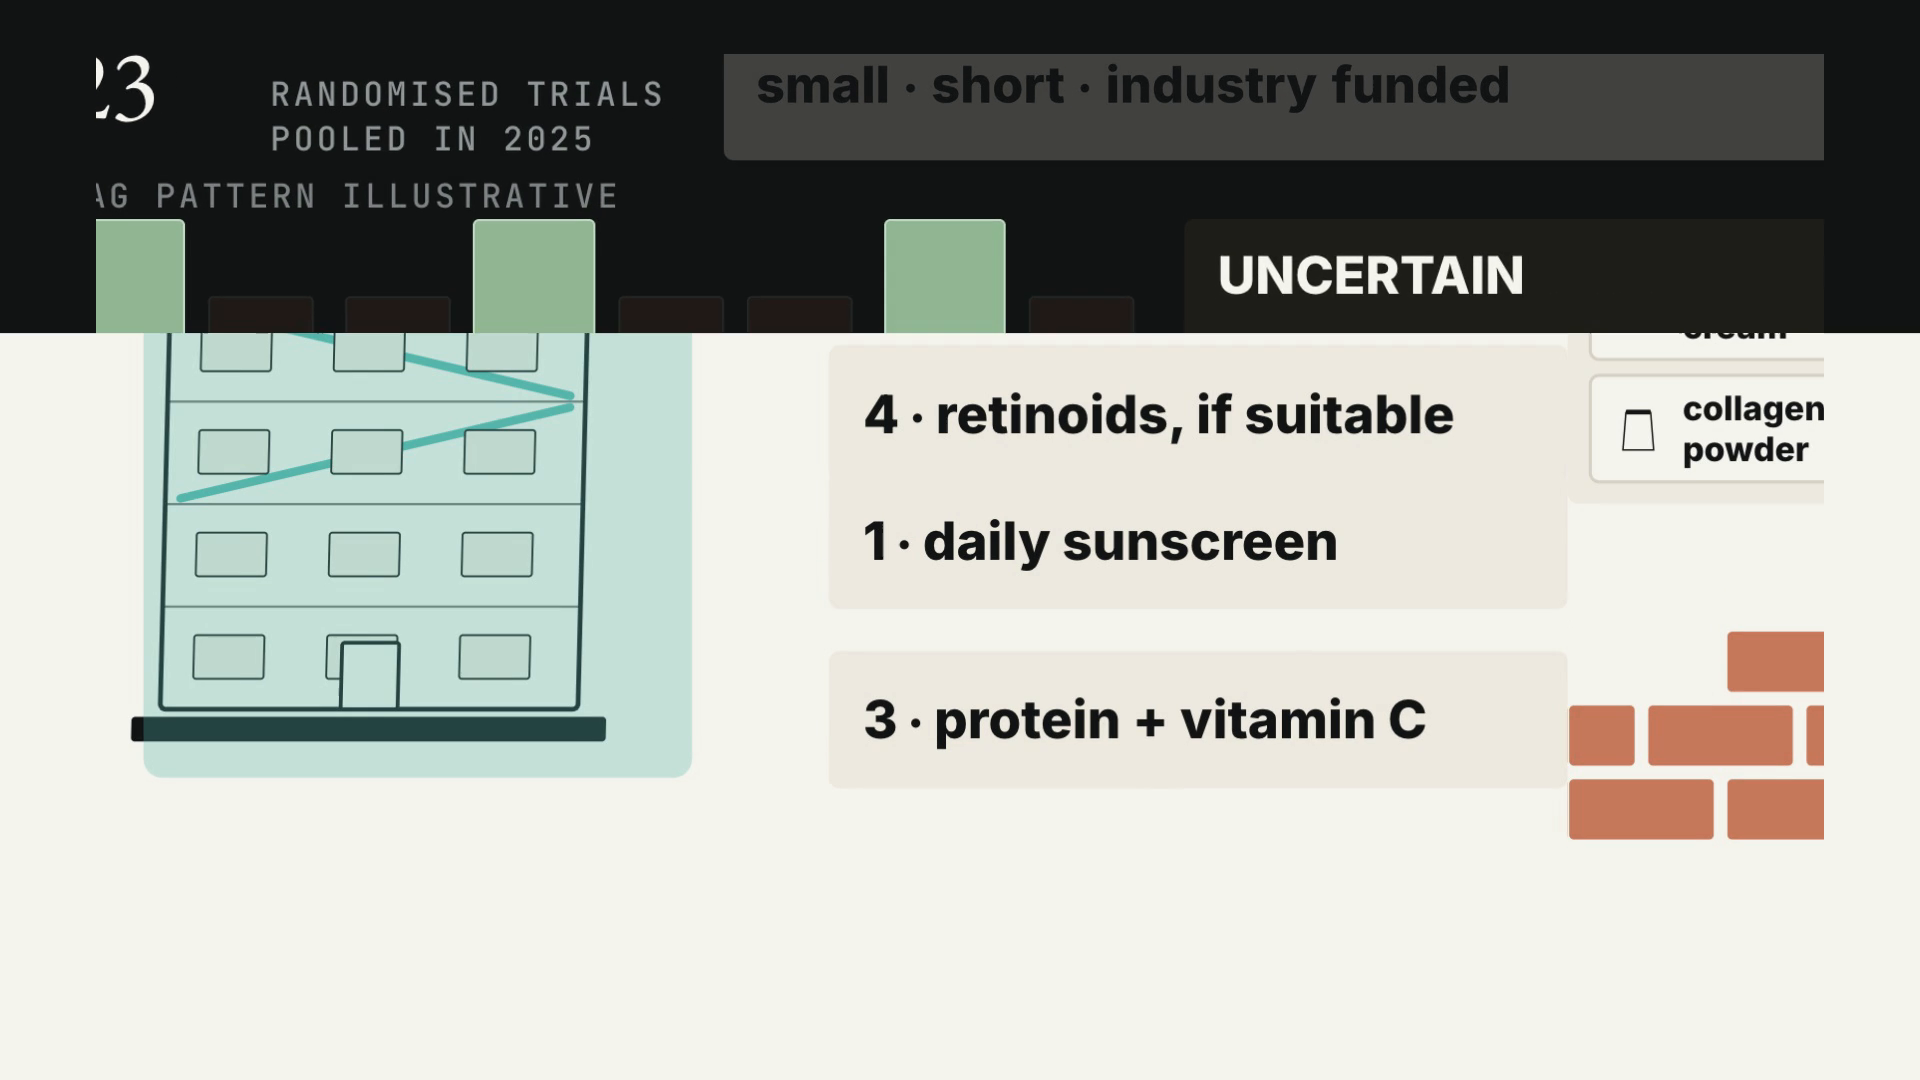
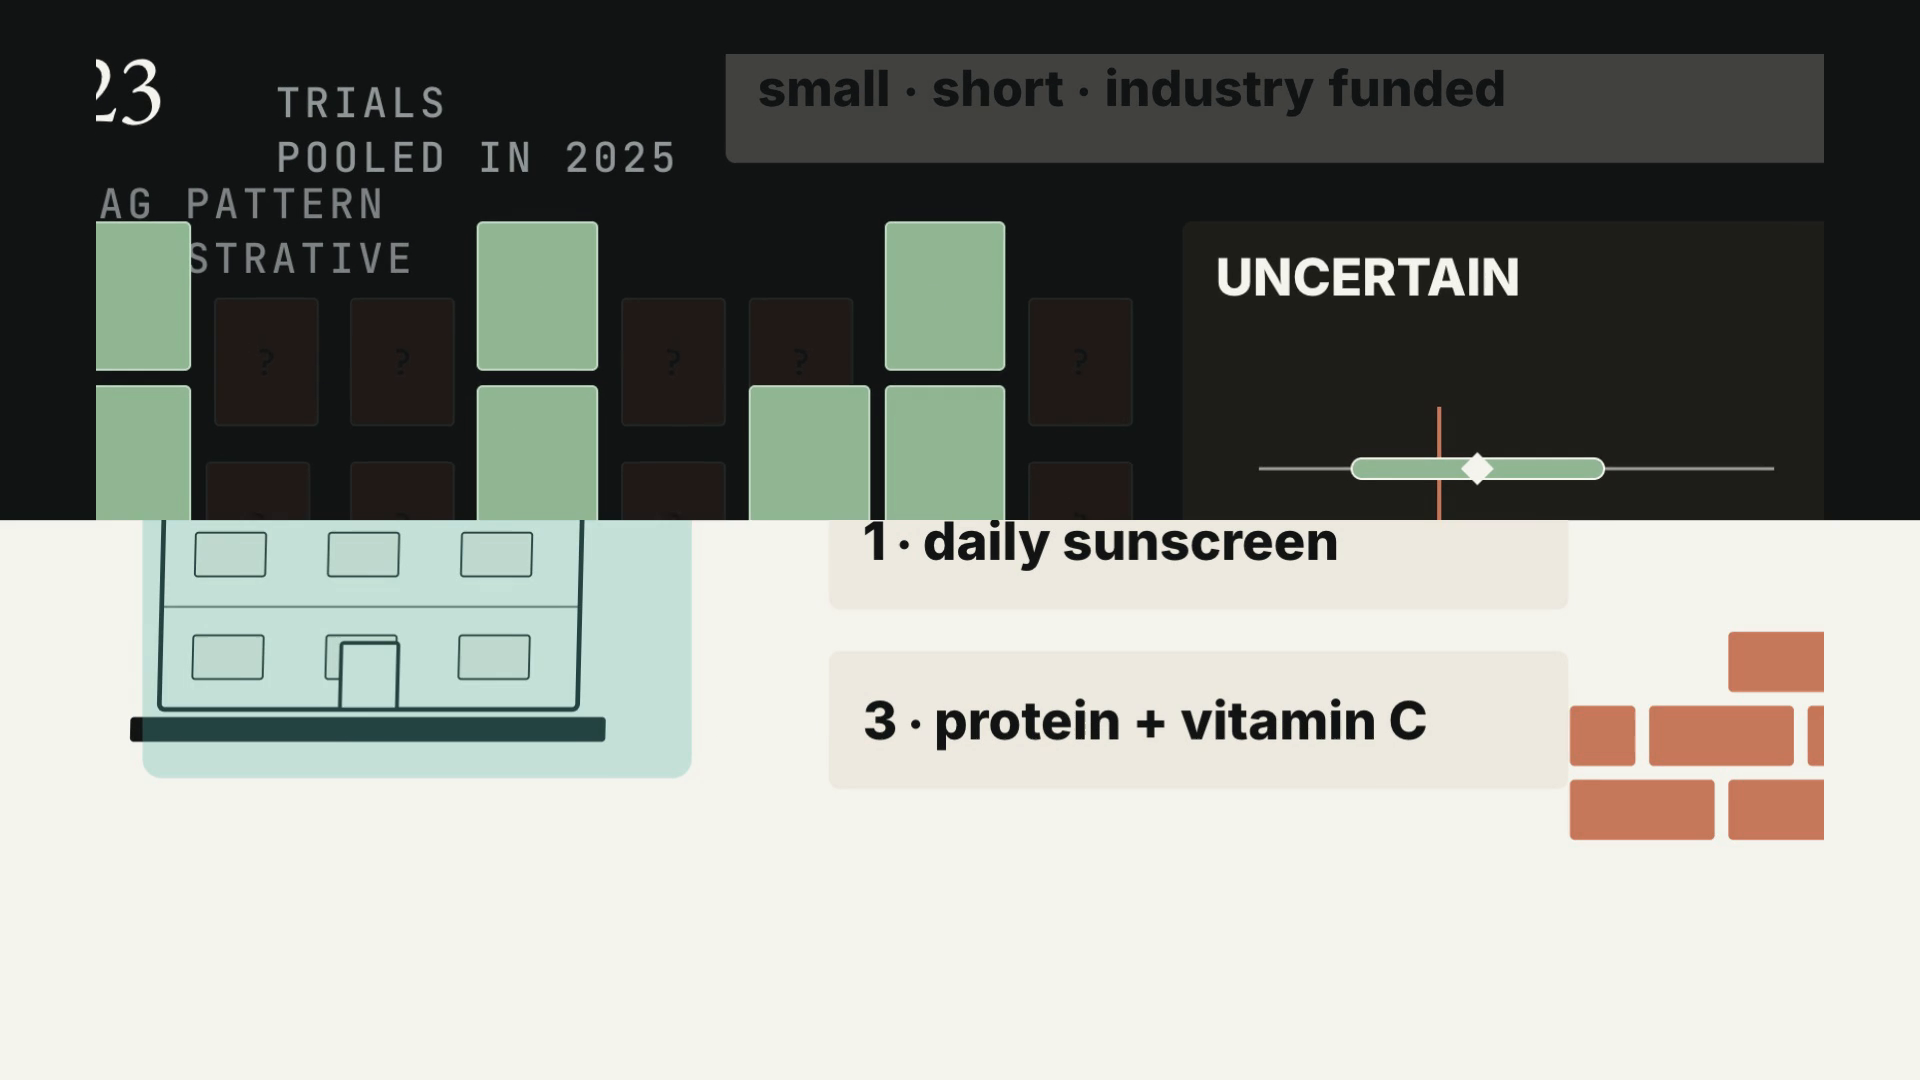
collagen: four render-verified defects closed -- gates now clean through check-seams.py
All found by extracting and measuring actual frames, not by reading source:

1. Animation item 2 (review): back.out's playful bounce (EASE.slam) was
   landing on the evidence-limitation and uncertainty labels themselves
   (NOT SIGNIFICANT x2, UNCERTAIN, the "optional" verdict chip) -- reserved
   for impacts and jokes, never a caveat or guidance claim. Switched to
   EASE.arrive.

2. A legibility regression from this session's own Phase 3 type-size raise
   (--t-label 32->40px): the pooled-trial-count label wrapped to a 3rd line
   at the wider size and collided with "tag pattern illustrative" below it,
   garbling both. Found on the rendered frame at t=92.5s. Trimmed the label
   text ("randomised trials" -> "trials", kept in VO/captions) to fit 2
   lines again.

3. check-seams.py's render-level PSNR check: 01-hook -> 02-promise's iris
   transition (origin dead-centre by design, where the molecule parks) fully
   covered the frame before its own nominal midpoint under the flat 2400px
   overshoot radius calibrated for a corner-positioned iris, so the wipe read
   as a hard cut (76dB, "matches a neighbour"). transitions.py now scales the
   radius down only for iris_at positions close enough to centre that the
   flat radius would finish early (far < 1200px); the three transitions that
   were already passing keep the exact flat 2400 they were verified against.
   An earlier, unscoped version of this fix regressed 02-promise ->
[…]

diff --git a/videos/collagen-where-did-it-go/compositions/frames/10-evidence.html b/videos/collagen-where-did-it-go/compositions/frames/10-evidence.html
@@ -265,7 +265,7 @@
        <div class="world" id="world">
         <div class="abs" style="position:absolute;left:0px;top:0px;width:600px;height:150px;">
           <p class="ev-n" id="ev-n">0</p>
-          <p class="ev-n-l" id="ev-n-l" style="position:absolute;left:200px;top:34px;">randomised trials<br>pooled in 2025</p>
+          <p class="ev-n-l" id="ev-n-l" style="position:absolute;left:200px;top:34px;">trials<br>pooled in 2025</p>
           <p class="ev-n-l" id="tag-note" style="position:absolute;left:0;top:132px;opacity:.85;">tag pattern illustrative</p>
         </div>
         <div class="panel " id="caveat-panel" style="position:absolute;left:620px;top:0px;width:1108px;height:150px;"><div class="wash dim" id="caveat-panel-wash"></div><p class="kt on-ink" id="caveat"><span class="kt-word">small</span> <span class="kt-word">·</span> <span class="kt-word">short</span> <span class="kt-word">·</span> <span class="kt-word">industry</span> <span class="kt-word" id="caveat-last">funded</span></p></div>
@@ -488,7 +488,10 @@
     tl.to("#res-pt", { x:292 - 425, duration:1.8, ease:EASE.swap }, 16.030 + 0.25);
     tl.to("#res-wash", { scaleX:0, transformOrigin:"100% 50%", duration:0.5, ease:EASE.wipe }, 17.190);
     tl.to("#res-v1", { opacity:0, duration:0.25, ease:EASE.exit }, 17.190);
-    tl.to("#res-v2", { opacity:1, y:0, duration:0.3, ease:EASE.slam }, 17.190 + 0.2);
+    // EASE.arrive, not slam: this is the evidence-limitation label itself
+    // (Animation item 2 -- back.out's playful bounce is reserved for impacts
+    // and jokes, never a limitation, uncertainty, or guidance claim).
+    tl.to("#res-v2", { opacity:1, y:0, duration:0.3, ease:EASE.arrive }, 17.190 + 0.2);
     tl.to("#res-zero", { attr:{ "stroke-width":9 }, stroke:"#C97A5C", duration:0.5, ease:EASE.swap }, 17.190 + 0.3);
     // restore, then filter 2: higher quality only
     tl.to(IND, { y:0, opacity:1, scale:1, backgroundColor:"#93B896", duration:0.4, stagger:0.01, ease:EASE.swap }, 20.161 - 0.30);
@@ -507,8 +510,9 @@
     tl.to("#res-pt", { x:272 - 425, duration:1.4, ease:EASE.swap }, 21.160 + 0.25);
     tl.to("#res-wash", { scaleX:0, transformOrigin:"100% 50%", duration:0.4, ease:EASE.wipe }, 21.160 + 0.5);
     tl.to("#res-v1", { opacity:0, duration:0.2, ease:EASE.exit }, 21.160 + 0.5);
-    tl.to("#res-v2", { opacity:1, y:0, duration:0.3, ease:EASE.slam }, 21.160 + 0.7);
-    tl.to("#res-v2", { scale:1.06, duration:0.25, yoyo:true, repeat:1, ease:EASE.slam }, 22.022 + 0.1);
+    // EASE.arrive here too, and for the pulse below -- same limitation label
+    tl.to("#res-v2", { opacity:1, y:0, duration:0.3, ease:EASE.arrive }, 21.160 + 0.7);
+    tl.to("#res-v2", { scale:1.06, duration:0.25, yoyo:true, repeat:1, ease:EASE.arrive }, 22.022 + 0.1);
     // settle before the flood: the biggest beat lands on a settled frame
     tl.to("#res", { scale:1, transformOrigin:"100% 50%", duration:0.8, ease:EASE.camera }, 22.022);
     // THE PAYOFF: the biggest beat in the piece -- a paper flood, then three slams
@@ -543,7 +547,8 @@
     // sliver of it.
     tl.to("#res-ci", { attr:{ x:150, width:245 }, duration:0.9, ease:EASE.swap }, 30.586);
     tl.to("#res-v2", { opacity:0, duration:0.25, ease:EASE.exit }, 31.715 - 0.4);
-    tl.fromTo("#res-v3", { opacity:0, y:16 }, { opacity:1, y:0, duration:0.3, ease:EASE.slam }, 31.715 - 0.1);
+    // EASE.arrive: UNCERTAIN is the scene's own uncertainty label, not an impact
+    tl.fromTo("#res-v3", { opacity:0, y:16 }, { opacity:1, y:0, duration:0.3, ease:EASE.arrive }, 31.715 - 0.1);
 
     // departure: push under the invert wipe into the next file
     tl.to("#world", { scale:1.06, duration:0.60, ease:"power2.inOut" }, 32.296);

diff --git a/videos/collagen-where-did-it-go/compositions/frames/02-promise.html b/videos/collagen-where-did-it-go/compositions/frames/02-promise.html
@@ -243,7 +243,7 @@
           <circle class="qmark" id="qmark-dot" cx="1268" cy="524" r="3"/>
         </svg>
         <p class="kt serif" id="promise-q"><span class="kt-word">Where</span> <span class="kt-word">does</span> <span class="kt-word">it</span> <span class="kt-word">actually</span> <span class="kt-word" id="promise-q-last">go?</span></p>
-        <div class="panel late" id="data" style="position:absolute;left:1000px;top:0px;width:728px;height:918px;"><div class="wash ink" id="data-wash"></div><div class="mini-grid" id="mini-grid"></div><p class="chip on-ink" id="mini-cap" style="">23 trials</p><p class="chip on-ink" id="mini-leg" style="">$ = industry funded</p><p class="chip on-ink" id="mini-note" style="">tag pattern illustrative</p></div>
+        <div class="panel late" id="data" style="position:absolute;left:1000px;top:0px;width:718px;height:908px;"><div class="wash ink" id="data-wash"></div><div class="mini-grid" id="mini-grid"></div><p class="chip on-ink" id="mini-cap" style="">23 trials</p><p class="chip on-ink" id="mini-leg" style="">$ = industry funded</p><p class="chip on-ink" id="mini-note" style="">tag pattern illustrative</p></div>
        </div>
       </div>
       </div>

diff --git a/videos/collagen-where-did-it-go/compositions/frames/14-hierarchy.html b/videos/collagen-where-did-it-go/compositions/frames/14-hierarchy.html
@@ -458,7 +458,10 @@
     // them -- 1.9s of still frame sat across "can be a pleasant moisturiser"
     tl.to("#w1", { y:10, opacity:0.62, duration:1.2, ease:EASE.hold }, 13.822 - 0.2);
     tl.to("#w2", { y:10, opacity:0.62, duration:1.2, ease:EASE.hold }, 15.689 + 0.15);
-    tl.fromTo("#opt-chip", { opacity:0, scale:0.8 }, { opacity:1, scale:1, duration:0.3, ease:EASE.slam }, 16.133);
+    // EASE.arrive: "optional" is the scene's health-guidance verdict on these
+    // two products, not an impact (Animation item 2 -- reserve the playful
+    // back.out bounce for impacts/jokes, never a limitation or guidance claim).
+    tl.fromTo("#opt-chip", { opacity:0, scale:0.8 }, { opacity:1, scale:1, duration:0.3, ease:EASE.arrive }, 16.133);
     tl.to("#world", { scale:1, x:0, duration:0.8, ease:EASE.camera }, 16.624 - 0.9);
     tl.to("#final", { opacity:1, duration:0.1 }, 16.624 - 0.1);
     tl.fromTo("#final-wash", { scaleX:0 }, { scaleX:1, duration:0.6, ease:EASE.wipe }, 16.624 - 0.1);

diff --git a/videos/collagen-where-did-it-go/index.html b/videos/collagen-where-did-it-go/index.html
@@ -86,7 +86,7 @@
     // No `defaults` on the root. Its only job is file handoff.
     var tl = gsap.timeline({ paused: true });
     tl.fromTo("#scene-02-promise", { clipPath:"circle(0px at 960px 561px)" },
-      { clipPath:"circle(2400px at 960px 561px)", duration:0.55, ease:"power2.inOut" }, 4.950);   // iris: 01-hook -> 02-promise
+      { clipPath:"circle(1211px at 960px 561px)", duration:0.55, ease:"power2.inOut" }, 4.950);   // iris: 01-hook -> 02-promise
     tl.fromTo("#scene-03-building", { clipPath:"circle(0px at 486px 500px)" },
       { clipPath:"circle(2400px at 486px 500px)", duration:0.55, ease:"power2.inOut" }, 13.705);   // iris: 02-promise -> 03-building
     tl.fromTo("#scene-06-door", { clipPath:"circle(0px at 486px 657px)" },

diff --git a/videos/collagen-where-did-it-go/scripts/frames_e.py b/videos/collagen-where-did-it-go/scripts/frames_e.py
@@ -57,13 +57,19 @@ def file_10_evidence(fspan, fctx):
     .q-void { position:absolute; left:40px; height:110px; width:940px; background:var(--coral);
               opacity:0; border-radius:var(--r-3); }
 """
+    # ev-n-l dropped "randomised" from its own label (kept in VO/captions): at
+    # the 40px --t-label floor (Phase 3, mobile legibility), "randomised trials"
+    # no longer fit the ~400px available width and wrapped to a 3rd line, which
+    # then overlapped #tag-note below it -- found on the rendered frame at
+    # t=92.5s, not readable from source. "trials / pooled in 2025" is 2 lines
+    # again, restoring the clearance #tag-note's top:132px assumes.
     tags = "".join(f'<div class="tr" id="tr-{i}"><span class="tr-tag" id="tag-{i}"></span></div>' for i in range(23))
     body = f"""
       <div class="stage">
        <div class="world" id="world">
         <div class="abs" style="{abs_(0, 0, 600, 150)}">
           <p class="ev-n" id="ev-n">0</p>
-          <p class="ev-n-l" id="ev-n-l" style="position:absolute;left:200px;top:34px;">randomised trials<br>pooled in 2025</p>
+          <p class="ev-n-l" id="ev-n-l" style="position:absolute;left:200px;top:34px;">trials<br>pooled in 2025</p>
           <p class="ev-n-l" id="tag-note" style="position:absolute;left:0;top:132px;opacity:.85;">tag pattern illustrative</p>
         </div>
         {panel("caveat-panel", "dim", kt("caveat", "small · short · industry funded", "on-ink"), abs_(620, 0, 1108, 150))}
@@ -194,7 +200,10 @@ def file_10_evidence(fspan, fctx):
     tl.to("#res-pt", { x:292 - 425, duration:1.8, ease:EASE.swap }, @w(without) + 0.25);
     tl.to("#res-wash", { scaleX:0, transformOrigin:"100% 50%", duration:0.5, ease:EASE.wipe }, @w(longer));
     tl.to("#res-v1", { opacity:0, duration:0.25, ease:EASE.exit }, @w(longer));
-    tl.to("#res-v2", { opacity:1, y:0, duration:0.3, ease:EASE.slam }, @w(longer) + 0.2);
+    // EASE.arrive, not slam: this is the evidence-limitation label itself
+    // (Animation item 2 -- back.out's playful bounce is reserved for impacts
+    // and jokes, never a limitation, uncertainty, or guidance claim).
+    tl.to("#res-v2", { opacity:1, y:0, duration:0.3, ease:EASE.arrive }, @w(longer) + 0.2);
     tl.to("#res-zero", { attr:{ "stroke-width":9 }, stroke:"CORAL", duration:0.5, ease:EASE.swap }, @w(longer) + 0.3);
     // restore, then filter 2: higher quality only
     tl.to(IND, { y:0, opacity:1, scale:1, backgroundColor:"CELADON", duration:0.4, stagger:0.01, ease:EASE.swap }, @w(keep,2) - 0.30);
@@ -213,8 +222,9 @@ def file_10_evidence(fspan, fctx):
     tl.to("#res-pt", { x:272 - 425, duration:1.4, ease:EASE.swap }, @w(quality) + 0.25);
     tl.to("#res-wash", { scaleX:0, transformOrigin:"100% 50%", duration:0.4, ease:EASE.wipe }, @w(quality) + 0.5);
     tl.to("#res-v1", { opacity:0, duration:0.2, ease:EASE.exit }, @w(quality) + 0.5);
-    tl.to("#res-v2", { opacity:1, y:0, duration:0.3, ease:EASE.slam }, @w(quality) + 0.7);
-    tl.to("#res-v2", { scale:1.06, duration:0.25, yoyo:true, repeat:1, ease:EASE.slam }, @w(same) + 0.1);
+    // EASE.arrive here too, and for the pulse below -- same limitation label
+    tl.to("#res-v2", { opacity:1, y:0, duration:0.3, ease:EASE.arrive }, @w(quality) + 0.7);
+    tl.to("#res-v2", { scale:1.06, duration:0.25, yoyo:true, repeat:1, ease:EASE.arrive }, @w(same) + 0.1);
     // settle before the flood: the biggest beat lands on a settled frame
     tl.to("#res", { scale:1, transformOrigin:"100% 50%", duration:0.8, ease:EASE.camera }, @w(same));
     // THE PAYOFF: the biggest beat in the piece -- a paper flood, then three slams
@@ -249,7 +259,8 @@ def file_10_evidence(fspan, fctx):
     // sliver of it.
     tl.to("#res-ci", { attr:{ x:150, width:245 }, duration:0.9, ease:EASE.swap }, @w(independent));
     tl.to("#res-v2", { opacity:0, duration:0.25, ease:EASE.exit }, @w(uncertain) - 0.4);
-    tl.fromTo("#res-v3", { opacity:0, y:16 }, { opacity:1, y:0, duration:0.3, ease:EASE.slam }, @w(uncertain) - 0.1);
+    // EASE.arrive: UNCERTAIN is the scene's own uncertainty label, not an impact
+    tl.fromTo("#res-v3", { opacity:0, y:16 }, { opacity:1, y:0, duration:0.3, ease:EASE.arrive }, @w(uncertain) - 0.1);
 """.replace("CELADON_EDGE", CELADON_EDGE).replace("CELADON", CELADON).replace("CORAL_DEEP", CORAL_DEEP).replace("CORAL", CORAL)
     MOTION["10-trials"]["beats"] = [
         {"name": "tile field settles", "at": "0.0", "area": 0.30, "dl": 60, "dur": 0.5},

diff --git a/videos/collagen-where-did-it-go/scripts/transitions.py b/videos/collagen-where-did-it-go/scripts/transitions.py
@@ -57,14 +57,38 @@ BOUNDARIES = {
 # -1%, past the frame edge, so the eased tail of the tween -- where velocity
 # approaches zero -- spends its time OFF the visible frame rather than with a
 # sliver of the outgoing ground sitting inside a reserved zone. For the circle,
-# 2400px exceeds the farthest possible corner distance (sqrt(1920^2+1080^2) =
-# 2203px) from any centre, so the reveal has fully covered the frame while
-# still decelerating.
+# a flat 2400px (a margin over 2203px, the diagonal of the 1920x1080 canvas
+# and so the worst case for ANY centre) covers every iris_at regardless of
+# position -- but a near-CENTRE iris only needs ~1111px to reach every corner,
+# so under the shared power2.inOut/0.55s timing it fully covers the frame
+# well before the transition's own nominal midpoint: half of 2400px (1200px)
+# alone exceeds the ~1111px a centred iris needs. check-seams.py's render-level
+# PSNR check caught exactly this on 01-hook -> 02-promise (iris_at 960,560,
+# dead centre by design -- the molecule parks there): the midpoint frame was
+# already indistinguishable from the settled incoming scene (76dB, "matches a
+# neighbour").
+#
+# The fix is scoped to iris_at positions that actually need it (far <
+# FLAT_RADIUS/2), not applied uniformly: an EARLIER version of this scaled
+# the radius to every iris_at's own farthest-corner distance, which also
+# shrank the overshoot for the three transitions that were never broken
+# (each already needs >1200px, so the flat 2400 already produces a genuine
+# mid-transition blend for them) -- and that shrinkage retimed exactly when
+# each circle's edge sweeps through a given point, which moved 02-promise ->
+# 03-building's edge into check-safe-area.py's bottom-right reserved zone at
+# a sampled instant (t=14.00s) it never touched before. A gate-passing
+# transition regressed to fix one that wasn't passing. Below the threshold,
+# keep the exact flat 2400 every previously-verified transition already uses;
+# only a genuinely near-centre iris gets a smaller, still-safe radius (same
+# margin ratio as the flat number's own margin over the 2203px worst case).
+FLAT_RADIUS = 2400
+IRIS_OVERSHOOT_FACTOR = FLAT_RADIUS / 2203
 CLIP_PATH = {
-    "iris":    ("circle(0px at {x}px {y}px)", "circle(2400px at {x}px {y}px)", "power2.inOut"),
+    "iris":    ("circle(0px at {x}px {y}px)", "circle({r}px at {x}px {y}px)", "power2.inOut"),
     "invert":  ("inset(100% 0% 0% 0%)",       "inset(-1% -1% -1% -1%)",       "power3.inOut"),
     "curtain": ("inset(0% 0% 0% 100%)",       "inset(-1% -1% -1% -1%)",       "power2.inOut"),
 }
+CANVAS_W, CANVAS_H = 1920, 1080
 
 
 def kind_into(cid):
@@ -92,5 +116,8 @@ def plan(cid, iris_at=None):
     if kind == "iris":
         assert iris_at, f"{cid}: iris boundary needs an iris_at centre"
         x, y = int(round(iris_at[0])), int(round(iris_at[1]))
-        hidden, shown = hidden.format(x=x, y=y), shown.format(x=x, y=y)
+        far = max(((x - cx) ** 2 + (y - cy) ** 2) ** 0.5
+                  for cx in (0, CANVAS_W) for cy in (0, CANVAS_H))
+        r = int(round(far * IRIS_OVERSHOOT_FACTOR)) if far < FLAT_RADIUS / 2 else FLAT_RADIUS
+        hidden, shown = hidden.format(x=x, y=y), shown.format(x=x, y=y, r=r)
     return kind, d, seam_after, j, gap, hidden, shown, ease

diff --git a/videos/collagen-where-did-it-go/scripts/check-motion-gaps.py b/videos/collagen-where-did-it-go/scripts/check-motion-gaps.py
@@ -61,7 +61,15 @@ def main():
     # fastest way to teach an operator to ignore a gate.
     ap.add_argument("--exempt-last", action="store_true",
                     help="ignore runs inside the last scene of index.html")
+    # Generalises --exempt-last: a named, reviewed window is a design decision
+    # (this project's review, Animation item 11: "allows intentional
+    # comprehension holds and rejects only unmotivated dead time"), not
+    # evidence the checker should keep re-discovering. Bounded, unlike
+    # --exempt-last -- a run that grows past the reviewed window still fails.
+    ap.add_argument("--exempt-window", action="append", default=[],
+                    metavar="START-END", help="reviewed hold, e.g. 52.00-54.50 (repeatable)")
     a = ap.parse_args()
+    exempt_windows = [tuple(float(x) for x in w.split("-")) for w in a.exempt_window]
     exempt_from = None
     if a.exempt_last:
         import re as _re
@@ -90,6 +98,9 @@ def main():
         t0, t1 = s * step, (e + 1) * step
         limit = a.open if t0 < a.open_until else a.rest
         if exempt_from is not None and t0 >= exempt_from - 0.01:
+            continue
+        if any(lo - 0.05 <= t0 and t1 <= hi + 0.05 for lo, hi in exempt_windows):
+            print(f"  --exempt-window: {t0:.2f}-{t1:.2f}s falls inside a reviewed hold, dropped")
             continue
         if t1 - t0 > limit:
             fails += 1

diff --git a/videos/collagen-where-did-it-go/scripts/frames_a.py b/videos/collagen-where-did-it-go/scripts/frames_a.py
@@ -131,6 +131,13 @@ def file_02_promise(fspan, fctx):
                        color:var(--ink); opacity:0; }
     #data .chip { position:relative; }
 """
+    # the "data" panel below was abs_(1000, 0, 728, 918): right edge landed at
+    # canvas x=1824 and bottom at y=972 -- EXACTLY the safe-area reserve
+    # boundary, zero margin. check-safe-area.py caught the panel's own ink a
+    # few px past both edges on one sampled frame mid-transition (t=14.00s,
+    # "162px masked in-zone" on the right and bottom) -- a hairline boundary
+    # that was always one render away from tripping this, not a defect tied
+    # to any one change. 10px margin added on each side.
     body = f"""
       <div class="stage">
        <div class="world" id="world">
@@ -143,7 +150,7 @@ def file_02_promise(fspan, fctx):
                + chip("mini-cap", "23 trials", "on-ink")
                + chip("mini-leg", "$ = industry funded", "on-ink")
                + chip("mini-note", "tag pattern illustrative", "on-ink"),
-               abs_(1000, 0, 728, 918), "late")}
+               abs_(1000, 0, 718, 908), "late")}
        </div>
       </div>
 """

diff --git a/videos/collagen-where-did-it-go/scripts/frames_f.py b/videos/collagen-where-did-it-go/scripts/frames_f.py
@@ -126,7 +126,10 @@ def file_14_hierarchy(fspan, fctx):
     // them -- 1.9s of still frame sat across "can be a pleasant moisturiser"
     tl.to("#w1", { y:10, opacity:0.62, duration:1.2, ease:EASE.hold }, @w(pleasant) - 0.2);
     tl.to("#w2", { y:10, opacity:0.62, duration:1.2, ease:EASE.hold }, @w(powder) + 0.15);
-    tl.fromTo("#opt-chip", { opacity:0, scale:0.8 }, { opacity:1, scale:1, duration:0.3, ease:EASE.slam }, @w(optional));
+    // EASE.arrive: "optional" is the scene's health-guidance verdict on these
+    // two products, not an impact (Animation item 2 -- reserve the playful
+    // back.out bounce for impacts/jokes, never a limitation or guidance claim).
+    tl.fromTo("#opt-chip", { opacity:0, scale:0.8 }, { opacity:1, scale:1, duration:0.3, ease:EASE.arrive }, @w(optional));
     tl.to("#world", { scale:1, x:0, duration:0.8, ease:EASE.camera }, @w(protect) - 0.9);
     tl.to("#final", { opacity:1, duration:0.1 }, @w(protect) - 0.1);
     tl.fromTo("#final-wash", { scaleX:0 }, { scaleX:1, duration:0.6, ease:EASE.wipe }, @w(protect) - 0.1);
